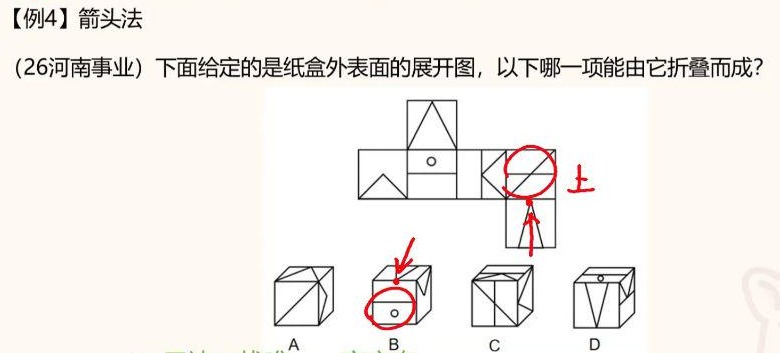
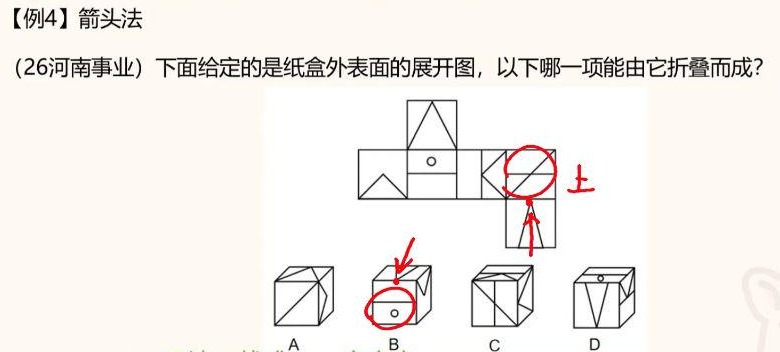
图形推理教程：第6章 平面串讲（图形关系、遍历、决策树）；README 初稿
Claude-Session: https://claude.ai/code/session_01EJRh1RahbdGEZPSmntMuwh

diff --git a/图形推理教程/06-平面图推串讲-思维导图与识别.md b/图形推理教程/06-平面图推串讲-思维导图与识别.md
@@ -15,12 +15,13 @@
 >   - 元素：只有 2 种元素时先运算后换算（图1+图3=2×图2）；超过 2 种时找相同（先自己、后邻居），无相同则看属性。
 > - **优先级原则**：强特征先，弱特征后，面是最弱的特征；曲线是"二哥"；端点是弱特征。两条路都说得通时，先试更好看的图形关系，越复杂的越往后放。
 > - **对称轴快速排除**：只有"全是一条对称轴"时才需要多想（方向 → 线/面/点 → 笔画）。其他情况（识别分不了类、中心对称、多条轴、多个规则图形没答案）都应快速排除。
+> - **遍历（选修）**：相同的元素重复出现 → 缺啥补啥（按行看，多个属性分别补）。只有 315 联考、上海偶尔考，国考没考过。
 
 ---
 
 ## 0. 本章定位与用法
 
-- 这节课分成两半。前半讲平面图推的**最后一个考点"图形间关系"**，这是新内容，本章第 3 节完整保留。后半是 **"3+3"思维导图串讲**，把前 5 章的位置、样式、标记、属性、数量按"看到什么 → 想到什么"串起来，老师也补了不少新的判断方法、混淆点和优先级。
+- 这节课分成两半。前半讲平面图推的**最后一个考点"图形间关系"**，这是新内容，本章第 3 节完整保留。后半是 **"3+3"思维导图串讲**，把前 5 章的位置、样式、标记、属性、数量按"看到什么 → 想到什么"串起来，老师也补了不少新的判断方法、混淆点和优先级。前几课推迟到本课讲的**遍历（选修）**，在本章第 5 节完整展开。
 - 串讲里的老例题只配图、标答案，并提示识别信号；细则回看前面各章。**新例题、新判断方法、新口诀完整写出。**
 - 思维导图的读法：**老师标红的是"讲过一遍考试时还容易忘"的，必须记；黑色部分做过一次就会，不用背。**
 - 老师建议的复盘方法：讲义结尾的串讲就是复盘；思维导图靠理解，不要死记硬背；后期刷题的错题**标在思维导图对应分支上**，同时每个分支专项刷 10 题左右。
@@ -43,6 +44,8 @@
 | | — | 【3】图形间位置 | 相离、包含、相交；复杂型；与外框的关系 |
 
 > 老师强调：考试会在知识点细节上创新，但**不会在这 6 个宏观方向上创新**（位置、样式、标记、属性、数量、图形关系）。所以至少要把宏观方向抓牢，拿到题先想清楚是哪一类。
+
+![老师在思维导图上把 6 个宏观方向标为 1~6（此页为 4 属性、5 数量、6 图形间位置），旁写"6 ×"：这 6 个方向不会创新](images/L06/s059-liuda-fangxiang.jpg)
 
 ### 1.2 第一刀：有没有"一样的图案"
 
@@ -174,7 +177,7 @@
 2. **强特征先，弱特征后**：一幅图常常同时带多个特征。面的特征人人都有，是最弱的；端点常是画曲线时顺带露出来的，也弱。先问自己"除了面，还有没有更强的特征"。
 3. **二选一时的性价比**：图形关系和数量都说得通时，**先试图形关系**。相交面、相交线一眼就能看出来；数量要逐条数，还可能涉及运算。**越复杂的事情越往后放**。
 4. **没有强特征就直接套**：出题人故意用面、笔画、点混淆你时，不必区分，按**面 → 笔画 → 点**直接试（多端点时试笔画 → 点）。
-5. **对称轴快速排除**（见 5.3 节）：只有"全是一条对称轴"时要多想，其他情况快速排。
+5. **对称轴快速排除**（见 6.3 节）：只有"全是一条对称轴"时要多想，其他情况快速排。
 6. **分组分类题一般不考位置和运算**：六图分两类的题，背景又各不相同时，考不了位置；样式运算一般出在两组图或九宫格里。
 7. **国考命题严谨**：平行线在同一方向上一般只画两条；超过两条，考平行线的概率就极低。
 
@@ -216,6 +219,7 @@
   - 接触于一条边 → 相交于边（线）；
   - 重叠出一块区域 → 相交于面（把三角形还原回去，重叠部分就是那块面）。
 - **易错**（图中绿色部分）：两个圆由一条线段相连，属于**相交于点**。因为两个图案真正接触的地方是点，**不要被中间那条线干扰**。
+- 补充（术语对照，便于和其他资料对接）：本课的"相交于点"就是常说的**公共点**，"相交于边"就是**公共边**；"相切"归在相交于点里（切点）。本课讲稿和课件里没有出现其他资料中"切圆瓜""被孤立"之类的叫法。
 
 #### ② 相交于点：交点/切点、曲直性、首尾/中间
 
@@ -437,7 +441,7 @@
 
 ---
 
-## 4. 串讲①：有一样的图案（位置、相邻比较、样式、遍历、标记）
+## 4. 串讲①：有一样的图案（位置、相邻比较、样式、标记）
 
 > 这一部分是前面各章的复盘，老题只配图、写识别要点，答案以课件标注为准。
 
@@ -534,16 +538,7 @@
   1. **相同区域**：找两个一样的区域（比如都是黑+黑、白+白），它们的运算结果一定一样，拿去对选项，往往一步就能选出答案；
   2. **对比选项**：看选项哪里不同，比如左上角不同，就回去推左上角的白+黑等于什么。
 
-### 4.5 遍历（选修）
-
-![遍历：相同的元素重复出现→缺啥补啥；两题答案均为C](images/L06/s075-bianli.jpg)
-
-- **出题者作图**：相同的元素重复出现。**解题思路**：缺啥补啥。
-  - 左题：箭头有朝左、朝右两个方向，这一行缺朝左的；元素有米字、圆、菱形，缺菱形，所以选 C。
-  - 右题：L 形的朝向缺朝左的，排除 A、B；圆有空白、半实心、实心，缺空白，所以选 C。
-- **考情**：只有 315 联考和上海偶尔考，国考从没考过；十年前各省常考，现在嫌太简单。准备不准备都不影响得分，所以老师把它删成选修，**了解即可**。
-
-### 4.6 标记
+### 4.5 标记
 
 ![标记串讲：都有小图案标记；位置、点（曲直性、引发的线条数量）、线（直/曲、最长/最短、线的位置）、角、面（单独面/相交面、相同/不同区域、形状属性面积）、多个标记（标记物之间关系，或连线后与原图关系）；示例A标记角、A标记点引发线条数、B标记线的位置](images/L06/s077-biaoji.jpg)
 
@@ -567,9 +562,84 @@
 
 ---
 
-## 5. 串讲②：属性（曲直性、开闭性、对称性）
+## 5. 遍历（选修；前几课推迟到本课讲）
 
-### 5.1 曲直性与开闭性
+> 第 2 课讲样式规律时说过"还有个考点叫遍历，是送分考点，讲义里没有，第六天串讲时带一下"，本课兑现了。在老师的体系里，遍历属于**样式规律**（"样式正常情况下，它还有个遍历"），因为太简单，被从思维导图里删掉，列为选修。
+
+![遍历：出题者作图——相同的元素重复出现；解题思路——缺啥补啥；两道九宫格题答案均为C](images/L06/s075-bianli.jpg)
+
+### 识别信号（看到什么，想到它）
+
+- **出题者作图：相同的元素重复出现。** 常见的是九宫格，整道题只反复用到几种固定的元素，比如 3 种图形、3 种箭头方向、3 种颜色，每一行都是这几样的不同排列。
+- 和位置规律的区别：位置规律是**同一个图案在动**；遍历是**几种不同的元素轮流出现**，每格里的东西本身就不一样。
+- 和样式运算的区别：遍历**没有线条的叠加、抵消，也没有黑白运算**，只是"凑齐一套"。
+
+### 规律讲解
+
+- **解题思路：缺啥补啥。** 以行为单位，找出这一行已经出现过的元素，问号处补上**还缺的那一个**。
+- **一格里常常有两个属性同时遍历**，比如"上方图形种类 + 箭头方向"，"线条形状（朝向）+ 圆的颜色"。做法是**分开看，各自补**：
+  1. 属性一：这一行缺什么；
+  2. 属性二：这一行缺什么；
+  3. 同时满足两者的选项就是答案。
+- 💡 解释：遍历的本质是**每一行都用同一套元素**，所以每个属性在每一行的集合都相同，问号处的取值等于"整套取值减去已出现的"。本课两例都是**按行**遍历，按列并不成立（例 1 第一列的米字出现了两次），所以先按行看。
+
+### 易错点 / 老师提醒
+
+- **两个属性都要核对**：例 2 只看线形会剩 C、D，只看颜色会剩 B、C，两个属性合起来才唯一。
+- **考情**：只有 **315 联考**和**上海**偶尔会考，其他省份基本不考，**国考从没考过**。十年前各省都爱考，现在嫌它太简单，考的省份越来越少。
+- 老师原话大意："准备也罢，不准备也罢，不影响你的得分"，会做前面那些难题的人，这种题不可能不会。所以只需**了解、做两道题熟悉一下**。样式规律的备考重心是**黑白运算和加减同异**，尤其是加减同异里考"动"的问题。
+- （第 5 课老师也提醒过：还没系统讲之前，别总往"遍历"上想，到时候容易和其他考点混淆。）
+
+### 例题
+
+#### 例1（九宫格）图形种类 + 箭头方向
+
+![遍历例1：每格上方为菱形/圆/米字之一，下方为向右/向左/双向箭头之一；答案C](images/L06/s075-bianli-li1.jpg)
+
+**思路**：
+1. **识别**：九宫格里反复出现的只有三种上方图形（菱形、圆、米字）和三种箭头（向右、向左、双向），属于"相同的元素重复出现"，定位遍历。
+2. **按行验证**：
+   - 第一行：菱形+向右、圆+向左、米字+双向；
+   - 第二行：米字+向左、菱形+双向、圆+向右。
+
+   每行三种图形、三种箭头各出现一次。
+3. **缺啥补啥**：第三行已有米字+向右、圆+双向。图形缺**菱形**，箭头缺**向左**。
+4. **对选项**：
+   - A：米字+双向；
+   - B：圆+向右；
+   - **C：菱形+向左**；
+   - D：米字+向右。
+
+   只有 C 同时满足。
+
+**答案**：C
+
+#### 例2（九宫格）线条朝向 + 圆的颜色
+
+![遍历例2：三种线形（竖线+向右横线、竖线+向左横线、单根竖线）与三种圆（白、半黑、全黑）；答案C](images/L06/s075-bianli-li2.jpg)
+
+**思路**：
+1. **识别**：反复出现三种线形和三种圆，定位遍历。
+   - 线形："L"形（竖线在左、横线朝右，圆在右端）；反"L"形（竖线在右、横线朝左，圆在左端）；单根竖线（圆在下端）。
+   - 圆：白色、半黑半白、全黑。
+2. **按行验证**：
+   - 第一行：L 形+白、反 L 形+半黑、竖线+黑；
+   - 第二行：竖线+白、反 L 形+黑、L 形+半黑。
+
+   每行三种线形、三种颜色各一次。
+3. **缺啥补啥**：第三行已有竖线+半黑、L 形+黑。线形缺**反 L 形**，也就是横线朝左（老师说"这个 L 型应该朝左边"）；颜色缺**白色**（空白）。
+4. **对选项**：
+   - 先看线形：A 是 L 形，B 是单根竖线，排除；
+   - 再看颜色：D 是半黑，排除；
+   - **C：反 L 形 + 白圆**，符合。
+
+**答案**：C
+
+---
+
+## 6. 串讲②：属性（曲直性、开闭性、对称性）
+
+### 6.1 曲直性与开闭性
 
 ![属性串讲：1/2、2/3曲线→曲直性（D：2/3→曲直性；B：1/2→曲直性；126：1/2→曲直性）；生活化图形→开闭性，生活化思路：面、部分数、属性、笔画；规则美观→对称性](images/L06/s079-shuxing-quzhi.jpg)
 
@@ -586,7 +656,7 @@
   4. **笔画**：用生活化图形考笔画，是新趋势。广东、深圳、浙江、联考都明确出过，老师建议**所有省份都准备**。
 - 生活化考对称性十年前常见，现在一考得分率就在 90% 以上，出题人不愿意再出。生活化的属性题现在主要是**开闭性**，而开闭性主要是 **315 联考**考。
 
-### 5.2 对称性：先识别，后细化
+### 6.2 对称性：先识别，后细化
 
 ![对称识别：D整体对称性（九宫格斜着看）、145对称轴识别、156对称轴识别——A与非A](images/L06/s080-duicheng-shibie.jpg)
 
@@ -612,7 +682,7 @@
 - **一条对称轴没答案，不能排！** 后面还可能和数量（线、面、点、笔画）结合。
 - **对称 + 笔画**（★）：前两三年广东、江苏就已经明确考过，浙江选调这两年也考了，**国考 26 年也考了**。国考一出，各省各试卷抄的概率极大，所以对称轴没答案时，**今年和笔画复合的概率很高**。
 
-### 5.3 对称轴如何快速排除（新方法）
+### 6.3 对称轴如何快速排除（新方法）
 
 对称轴是"没有一样"的**答题起点**，后面接着的是"对称 → 数量"和"对称 → 图形关系"。出题人又很"坏"，常用规则图形去考数量。不会快速排对称，就会卡在对称这一步推不下去。
 
@@ -623,7 +693,7 @@
   - 识别不出规律、多条轴的数量不行、多个规则图形没答案 → 排。
 - 例 1（都是轴+中心）、例 5（整体都是中心对称）都是这样快速排掉的。
 
-### 5.4 属性考情
+### 6.4 属性考情
 
 | 省份 | 偏好 |
 |---|---|
@@ -636,9 +706,9 @@
 
 ---
 
-## 6. 串讲③：数量规律·基础考点（强弱特征与六大混淆点）
+## 7. 串讲③：数量规律·基础考点（强弱特征与六大混淆点）
 
-### 6.1 先做减法：真正要区分的是面、笔画、点
+### 7.1 先做减法：真正要区分的是面、笔画、点
 
 - **基础考点和细化考点，哪个更简单？细化更简单。** 细化考点特征明显、区分度大：
   - 所有面结合三角形考；大小面有明显的大、明显的小；相同面有一样的面；
@@ -653,7 +723,7 @@
   - **线**：也是低频。线和笔画都属于"线"的角度，笔画只是更细的考法；现在 90% 以上省份在考笔画，一套图推才 5 道或 10 道，知识点要考得全面，**出题人选了笔画就很少再考线**，两者很少同时出现。
 - 所以考得最多、最容易混的只剩 **面、笔画、点**。出题人故意混淆时，**不用区分，直接按面 → 笔画 → 点去试，一定会出答案**，除非今年考了直角、线这类低频考点。要有"敢赌"的心态。
 
-### 6.2 强特征与弱特征
+### 7.2 强特征与弱特征
 
 ![基础考点思维导图：弱特征（只有面特征→①面②笔画③点；多端点→①笔画②点，面笔画点混淆）；强特征（五角星、日、田、圆相交→笔画；直角三角形、十字架、矩形→直角；独立→元素种类/个数；单一线条、都有曲线、多边形→线→2种线运算）。示例：134笔画-多端点、125笔画-面特征、156笔画-五角星/日/田](images/L06/s084-jichu-bihua.jpg)
 
@@ -683,7 +753,7 @@
   2. **都有曲线**：考曲线和直线的运算；
   3. **多边形**：两个外框，有黑有白，或者有大有小，一出现就让你做运算。
 
-### 6.3 六大混淆点
+### 7.3 六大混淆点
 
 #### 混淆点① 面、笔画、点
 
@@ -741,14 +811,14 @@
   - 有两个多边形外框 → 先考虑线的运算。
 - 反面教材：一上来就数面，1、2、3、4……"面没规律，那再看直角"。顺序反了，每道题都先数面，而考试偏偏又不考面，白白浪费时间。
 
-### 6.4 强弱特征的用法（总结）
+### 7.4 强弱特征的用法（总结）
 
 - 这些特征**经常同时出现**。
   - 弱特征：只要出现了，就**往后放一放**。几乎每道题都有面的特征，一上来就数面会大量试错。
   - 强特征：可以先考虑。可能同时出现两三个强特征也无所谓，逐个想一下就出答案了。
 - **只需背这几条**：笔画（五角星、日、田、圆相交）、直角（直角三角形、十字架、矩形）、线（单一线条、都有曲线、多边形）；元素看"独立"。**只要不是这几个强特征，就说明出题人在用面、笔画、点混淆你，不记特征，直接代入：面 → 笔画 → 点**。
 
-### 6.5 课前答疑：两道题的易错细节
+### 7.5 课前答疑：两道题的易错细节
 
 ![25浙江事业：为啥图2的外直角不要数？答疑：不是直角，不然要数。直角特征：直角三角形、十字架、矩形；答案C](images/L06/s005-zhijiao-dayi.jpg)
 
@@ -783,11 +853,11 @@
 
 ---
 
-## 7. 串讲④：数量规律·细化考点（面、线、点、元素）
+## 8. 串讲④：数量规律·细化考点（面、线、点、元素）
 
 > 思考：细化考点一定要先考虑基础考点吗？**不用**。细化考点**特征明显**，背了特征就直接定位，比基础考点还好定位。细化部分的特征（标红）**一定要背**，背了就快，而且不会混。
 
-### 7.1 面细化
+### 8.1 面细化
 
 ![细化考点总图＋所有面：C每个面形状（都是四边形）、B都有三角形、124三角形与四边形运算](images/L06/s096-xihua-mian.jpg)
 
@@ -806,12 +876,12 @@
   - 减法：大小面**99% 以上考形状和对称性**，压力大就只记这两个。
 - **相同面**：出现一样的面就考它，非常简单。
 
-### 7.2 线细化
+### 8.2 线细化
 
 - 线的细化只有一个：**平行线**。特征是**斜线、相似三角形**。画一条斜线不奇怪，画两条就是在凑平行线；想考三组平行线，就一定得画斜线。两个相似三角形也一样。
 - 反向排除：**同一方向超过两条，考平行线的概率极低**（见例 3、例 7）。
 
-### 7.3 点细化：曲线思路（本课重点新梳理）
+### 8.3 点细化：曲线思路（本课重点新梳理）
 
 ![出题者画曲线的"小心思"：切点、框上点、框内点、曲直交点、曲线与直线、框内面、框内线、笔画/点、曲直性（九种）](images/L06/s101-quxian-xiaoxinsi.jpg)
 
@@ -854,7 +924,7 @@
 
 - 不是圆，直接走非圆思路：先数曲直交点，不行再数曲线、直线做运算。
 
-### 7.4 元素细化
+### 8.4 元素细化
 
 ![元素细化：>2种元素→找相同→自己（B、C、A、134四题均为"找相同-自己"）](images/L06/s109-xihua-yuansu-zhaoxiangtong.jpg)
 
@@ -874,9 +944,13 @@
 
 ---
 
-## 8. 串讲⑤：图形关系回顾
+## 9. 串讲⑤：图形关系回顾
+
+![图形关系串讲：简单型——136包含（例1）、136相离-黑块之间的距离（例2）](images/L06/s112-guanxi-baohan-xiangli.jpg)
 
 ![图形关系串讲：D相交线-数量（例4）、125相交线-长短（例5）、D相交面-形状（例6）、D相交点-首尾/中间（例3）](images/L06/s113-guanxi-xiangjiao.jpg)
+
+![复杂型：136面与线的关系（例7，绿勾为共同的面、蓝圈为复杂线条）、146圆与外框的关系（例8）](images/L06/s114-guanxi-fuza.jpg)
 
 ![新趋势：134看不见的外框（例9）、126看得见的外框（例10）](images/L06/s117-guanxi-waikuang.jpg)
 

diff --git a/图形推理教程/README.md b/图形推理教程/README.md
@@ -1,0 +1,113 @@
+# 图形推理速成教程
+
+> 由义恒老师《判断推理·图形推理》9 节直播课整理：课件截图配图，讲稿去掉水分后凝练成文字，每个规律都讲清“看到什么 → 想到什么 → 怎么做 → 哪里有坑”。
+> 带 **💡 解释** 或“补充”字样的段落是整理时加的原理说明，不是老师原话，结论与老师一致。
+
+---
+
+## 怎么用这份教程
+
+1. **先花 10 分钟看下面的“一页总纲”**，脑子里先有一张地图。
+2. **按顺序学第 1～5 章（平面）**。每章开头的“本章要点速览”是整章的压缩版，最后的“本章小结”有速查表、口诀和易错坑汇总，复习时只看这两块就够。
+3. **学完平面后读第 6 章**。它把平面图推串成一棵决策树，还讲了强弱特征、六大混淆点，并完整讲了**图形关系**和**遍历**两个前面没讲的考点。
+4. **再学第 7～9 章（空间）**。
+5. 刷题时把错题标在第 6 章的思维导图分支上。同一分支错得多，就回到对应章节重看，再专项练 10 题左右（老师的复盘方法）。
+
+每道例题都按“**思路**（考场上的思考顺序）→ **答案**”写。建议先遮住思路自己做，再对照。
+
+离线或手机阅读可以用合订本 **[图形推理教程.pdf](图形推理教程.pdf)**。
+
+---
+
+## 目录
+
+| 章 | 内容 | 一句话核心 |
+|---|---|---|
+| [第1章 位置规律 + 相邻比较](01-位置规律与相邻比较.md) | 命题思维；平移（双胞胎、多胞胎、走到头）；16/25 宫格、蜂窝的内外分开看；隐藏外框；旋转翻转（箭头法、时针法）；相邻比较 | 图案**完全一样**只是位置变 → 位置；**有不动** → 相邻比较 |
+| [第2章 样式规律 + 标记](02-样式规律与标记.md) | 加减同异（纵向、拆分、“谁动”）；黑白运算（相同区域、对比选项）；标记（点、线、角、面、多个标记） | **相同位置的线条** → 加减同异；**外轮廓同、黑块数不同** → 黑白运算；**每幅都有小元素** → 标记 |
+| [第3章 属性规律 + 面](03-属性规律与数量规律-面.md) | 对称性（先识别后细化、1+1 与 N+N）；曲直性（1/2、2/3）；开闭性；面的数量（含立体图数面） | 对称是**大哥**：规则美观先看对称；曲线占 1/2、2/3 → 曲直 |
+| [第4章 面的细化、笔画、点](04-数量规律-面细化笔画点.md) | 所有面、大小面、相同面（6+6 口诀）；笔画（奇点、去外框）；点（交点、切点、框点、曲直交点） | **笔画数 = 奇点数 ÷ 2**；面 → 笔画 → 点 |
+| [第5章 线、元素、直角](05-数量规律-线元素直角.md) | 线（两种线的运算、平行线）；元素（种类、运算换算、找相同、部分数）；直角（外直角白数黑不数） | 两种线就运算；**独立** → 元素；直角三角形、十字架、矩形 → 直角 |
+| [第6章 平面串讲：思维导图与识别](06-平面图推串讲-思维导图与识别.md) | “3+3”总框架与决策树；**图形关系**（相离、包含、相交、复杂型、与外框）；**遍历**；强弱特征；六大混淆点；曲线思路 | 过于简单（两个图案）或过于复杂 → 图形关系 |
+| [第7章 六面体 + 四面体](07-空间-六面体与四面体.md) | （空间部分待第7章完成后补充） | |
+| [第8章 三视图 + 截面](08-空间-三视图与截面.md) | 三视图四细节；小方块、27 块挖空、魔方拧一次；圆柱圆锥圆台截面；正方体截面；三点截面 | **外轮廓定方向，内线条定选项**；截面**一刀切、刀无限大** |
+| [第9章 立体拼合、平面拼合](09-空间-立体拼合-平面拼合-不规则六面体.md) | 立体拼合（找特殊）；平面拼合（特殊线条、等长线）；黑白面；俄罗斯方块；多面体展开图 | 先代**最大最抽象**的块；**复制粘贴 = 100% 一致** |
+
+---
+
+## 一页总纲：拿到一道图推怎么想
+
+### 第 0 步：看出题形式
+
+| 形式 | 怎么看 | 出题人喜好 |
+|---|---|---|
+| 一组图 | 从左往右 | 恒定、等差、周期（交替） |
+| 两组图 | 左边找规律，右边用规律 | **等差、恒定**优先，运算很少 |
+| 九宫格 | 第一行找、第二行验、第三行用 | 横向约 95%，纵向约 5%（难题）；可考运算（面、元素好数） |
+| 分组分类 | 六个图平均分两类 | 两种规律；一般**不考位置和运算** |
+| 空间类 | 给立体图或展开图 | 见下面“空间” |
+
+### 第 1 步（平面）：有没有“一样的图案”？——“3+3”框架
+
+```
+有一样的图案
+├─ 完全一样（元素相同，只是位置、方向变）──→ 位置规律【第1章】
+│    ├─ 宫格（9/16/25 宫格、蜂窝）：先看内部 → 内部有规律就内外分开看，否则常规平移
+│    ├─ 只有线段、没有宫格 → 隐藏外框：找特殊线、就近
+│    ├─ 整体换朝向 → 旋转/翻转：箭头法、时针法
+│    └─ 大部分不动、局部在变 → 相邻比较（颜色互换 / 移动）
+└─ 部分一样
+     ├─ 相同位置的线条 → 加减同异【第2章】：看图3反推；谁动、纵向、拆分
+     ├─ 外轮廓一样，内部黑块个数不同 → 黑白运算【第2章】：相同区域、对比选项
+     ├─ 几样元素轮流出现 → 遍历（选修）【第6章】：缺啥补啥
+     └─ 每幅图都有同样的小元素、背景不同 → 标记【第2章】：标什么考什么
+
+没有一样的图案
+├─ 属性【第3章】
+│    ├─ 规则、美观 → 对称性（大哥）：先识别，后细化；只有“全是一条轴”才多想，其余快速排
+│    ├─ 曲线占 1/2 或 2/3 → 曲直性（直接定位）
+│    └─ 生活化图形 → 开闭性 / 面 / 部分数 / 笔画
+├─ 对称不行，图形过于简单（两个图案）或过于复杂 → 图形关系【第6章】
+│    相离（距离）、包含、相交（点：首尾/中间；线：数量、长短；面：形状、属性）；复杂型；与外框的关系
+└─ 正常情况 → 数量【第3～5章】
+     ├─ 强特征直接定位：
+     │    五角星、日、田、圆相交 → 笔画｜直角三角形、十字架、矩形 → 直角｜独立小图 → 元素
+     │    单一线条、都有曲线、两个多边形 → 线的运算｜斜线、相似三角形 → 平行线
+     │    明显大/小面、处处三角形、一样的面 → 面的细化
+     ├─ 全部图都有曲线 → 曲线思路：一个圆 → 切点 → 框点；两圆相交 → 笔画 → 点；非圆 → 曲直交点 → 曲线直线运算
+     └─ 只有弱特征：只有面特征 → 面 → 笔画 → 点；多端点 → 笔画 → 点
+```
+
+### 第 1 步（空间）
+
+（待第7章完成后补充）
+
+---
+
+## 最该背的口诀
+
+> - 每题问两句：**怎么识别考点？怎么变？** 识别是最大的难点。
+> - 个数 3、3、3 或 3、3、2 → 位置；3、3、4 → 排除位置。**个数相等优先位置，个数不同优先黑白运算。**
+> - **拆分思维，就近假设；双胞胎先标记，必须动；多胞胎找方向，走到头循环走。**
+> - **16 宫格内外分开看，关注内部；内部都有什么就考什么。**
+> - **相同位置的线条 → 加减同异；看图三反推；九成考求异。两勾图3不动，两叉图3动，一勾一叉，叉的那个动。**
+> - **对称是大哥，曲线是二哥。先识别，后细化；一条看方向，多条看数量。**
+> - **过于简单、过于复杂 → 图形关系；接触的地方是什么就考什么。**
+> - **强特征先，弱特征后；面是最弱的特征。没有强特征就按面 → 笔画 → 点。**
+> - **笔画数 = 奇点数 ÷ 2；端点也是奇点；外框不影响笔画。**
+> - **6+6：所有、大小、相同 + 形状、属性、面积。**
+> - **找相同：先找自己，再找邻居；两种元素先运算后换算（图1 + 图3 = 2 × 图2）。**
+> - **直角少数直角，直角多数笔画；外直角白数黑不数。**
+> - **外部轮廓定方向，内部线条定选项；视图可转不可翻。**
+> - **截面：一刀切、刀无限大、不能拐弯；视图有线，截面没线；只有竖直过顶点才切出纯直线。**
+> - **立体拼合找特殊：先代最大、最抽象的块，铅笔涂黑，看剩余轮廓。**
+> - **平面拼合：复制粘贴，100% 一致；特殊线条 → 等长的线 → 拆分选项。**
+
+---
+
+## 整理说明
+
+- 素材：`04_判断推理/` 里的 9 份课件（直播截图）和 9 份讲稿（语音识别）。讲稿里的同音错字（如“焦点”应为“交点”）已结合课件纠正。
+- 每个例题答案都用课件上老师的 ✓ 和讲稿里的“选 X”交叉核对过。个别课件没打 ✓ 的，按讲稿推导，已在对应例题中注明。
+- 课程标题和实际内容有错位：第 4 课讲的是“面的细化、笔画、点”，“线”在第 5 课讲；第 5 课标题里的“图形关系”在第 6 课讲；第 9 课的“不规则六面体”在第 7 课已讲过。各章按**实际内容**命名，并在章首说明。
+- 重新生成 PDF：`python3 tools/build_pdf.py`（需要 `pip install markdown-it-py mdit-py-plugins` 和 Chromium）。
